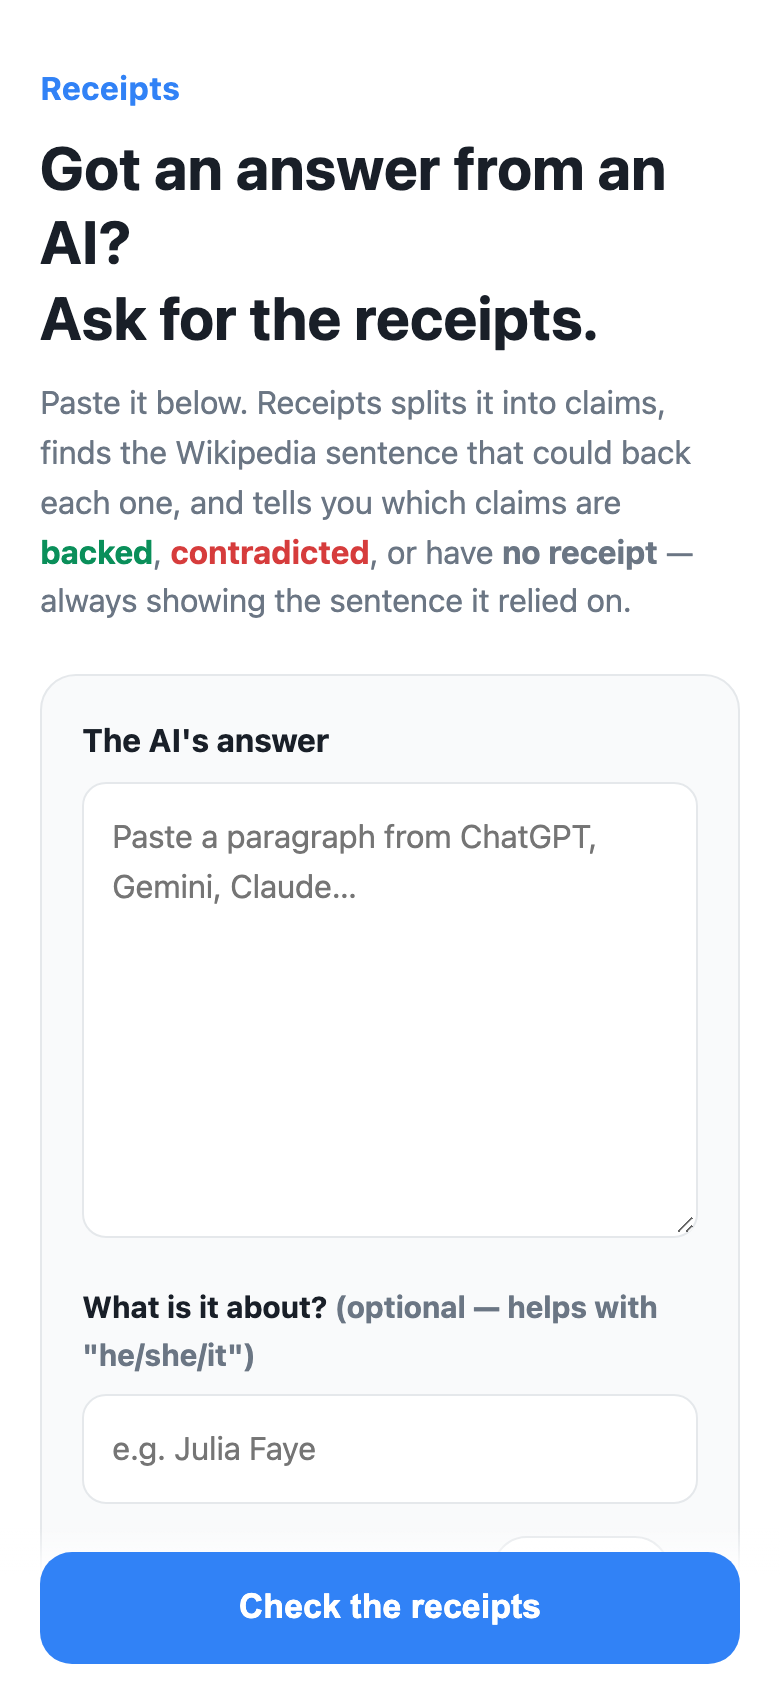
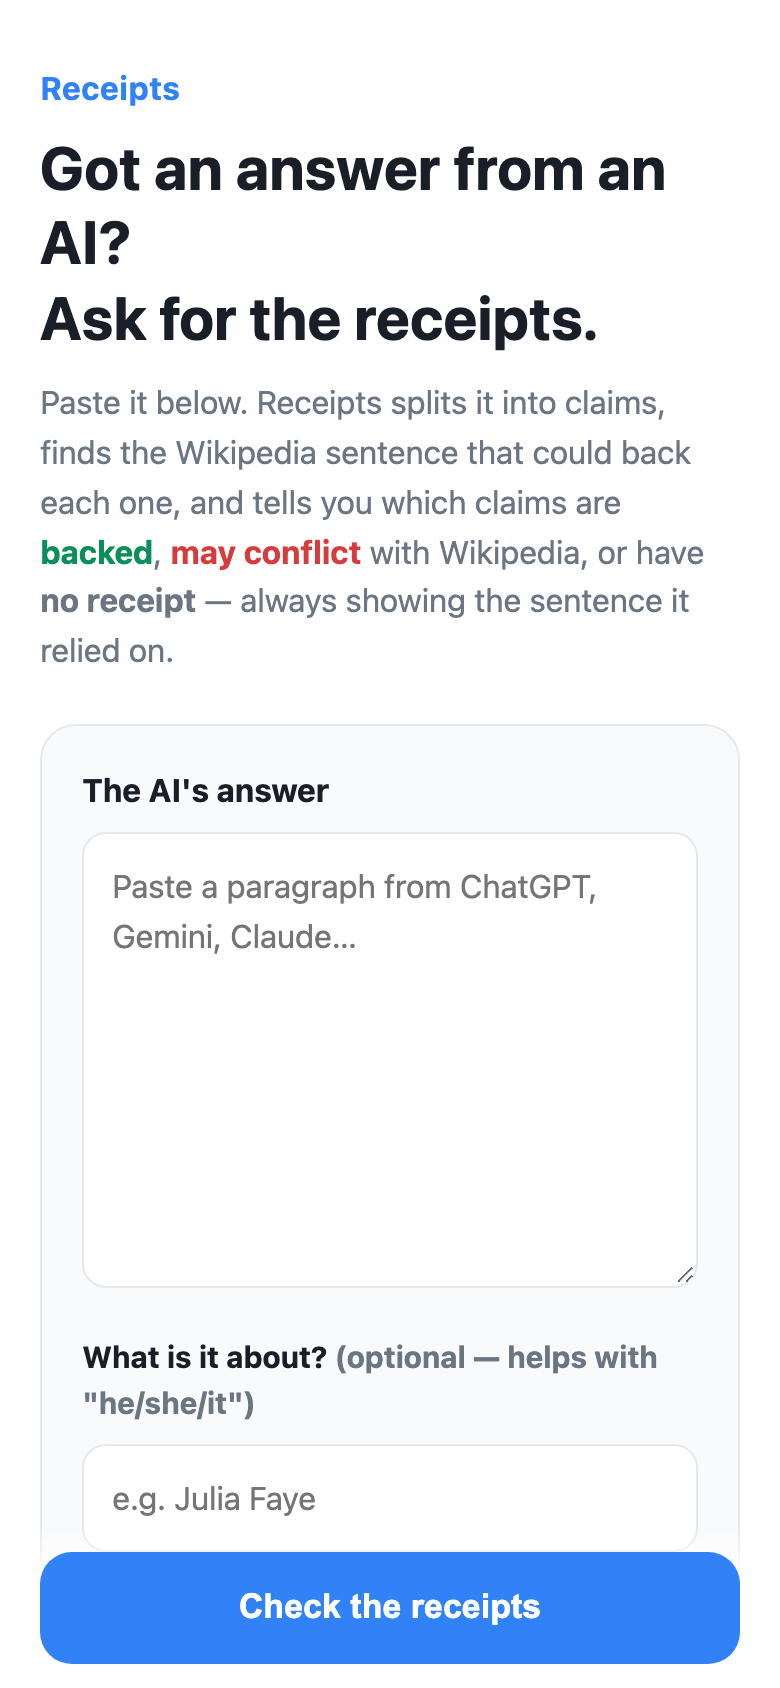
UI: 'May conflict' label (dev precision of contradicted calls is 53 %), part-level summary, Eiffel sample

diff --git a/web/main.ts b/web/main.ts
@@ -54,7 +54,7 @@ document.querySelectorAll<HTMLButtonElement>('[data-sample]').forEach((b) =>
   }),
 )
 
-const LABEL: Record<string, string> = { backed: 'Backed', contradicted: 'Contradicted', no_receipt: 'No receipt' }
+const LABEL: Record<string, string> = { backed: 'Backed', contradicted: 'May conflict', no_receipt: 'No receipt' }
 const esc = (s: string) => s.replace(/[&<>"]/g, (c) => ({ '&': '&amp;', '<': '&lt;', '>': '&gt;', '"': '&quot;' })[c]!)
 const p = (x: number) => `${Math.round(100 * x)}%`
 
@@ -145,7 +145,7 @@ btn.addEventListener('click', async () => {
     statusBox.hidden = true
     $('summary').hidden = false
     $('sum-big').textContent = `${counts.backed} of ${parts} claims backed`
-    $('sum-line').textContent = `${counts.contradicted} contradicted · ${counts.no_receipt} with no receipt — check those before you use them. (${all.length} sentences, ${((performance.now() - t0) / 1000).toFixed(0)} s)`
+    $('sum-line').textContent = `${counts.contradicted} may conflict with Wikipedia · ${counts.no_receipt} with no receipt — check those before you use them. (${all.length} sentences, ${((performance.now() - t0) / 1000).toFixed(0)} s)`
   } catch (e) {
     statusText.textContent = `Something went wrong: ${(e as Error).message}. Wikipedia may be busy — try again in a minute.`
   } finally {

diff --git a/web/index.html b/web/index.html
@@ -13,7 +13,7 @@
       <p class="eyebrow">Receipts</p>
       <h1>Got an answer from an AI?<br />Ask for the receipts.</h1>
       <p class="lede">Paste it below. Receipts splits it into claims, finds the Wikipedia sentence that could back each one,
-        and tells you which claims are <b class="c-backed">backed</b>, <b class="c-contra">contradicted</b>, or have
+        and tells you which claims are <b class="c-backed">backed</b>, <b class="c-contra">may conflict</b> with Wikipedia, or have
         <b class="c-none">no receipt</b> — always showing the sentence it relied on.</p>
     </section>
 
@@ -41,7 +41,7 @@
     <section id="summary" class="summary" hidden>
       <p class="big" id="sum-big"></p>
       <p id="sum-line"></p>
-      <div class="legend"><span class="pill backed">Backed</span><span class="pill contradicted">Contradicted</span><span class="pill no_receipt">No receipt</span></div>
+      <div class="legend"><span class="pill backed">Backed</span><span class="pill contradicted">May conflict</span><span class="pill no_receipt">No receipt</span></div>
     </section>
 
     <section id="results" class="results"></section>
